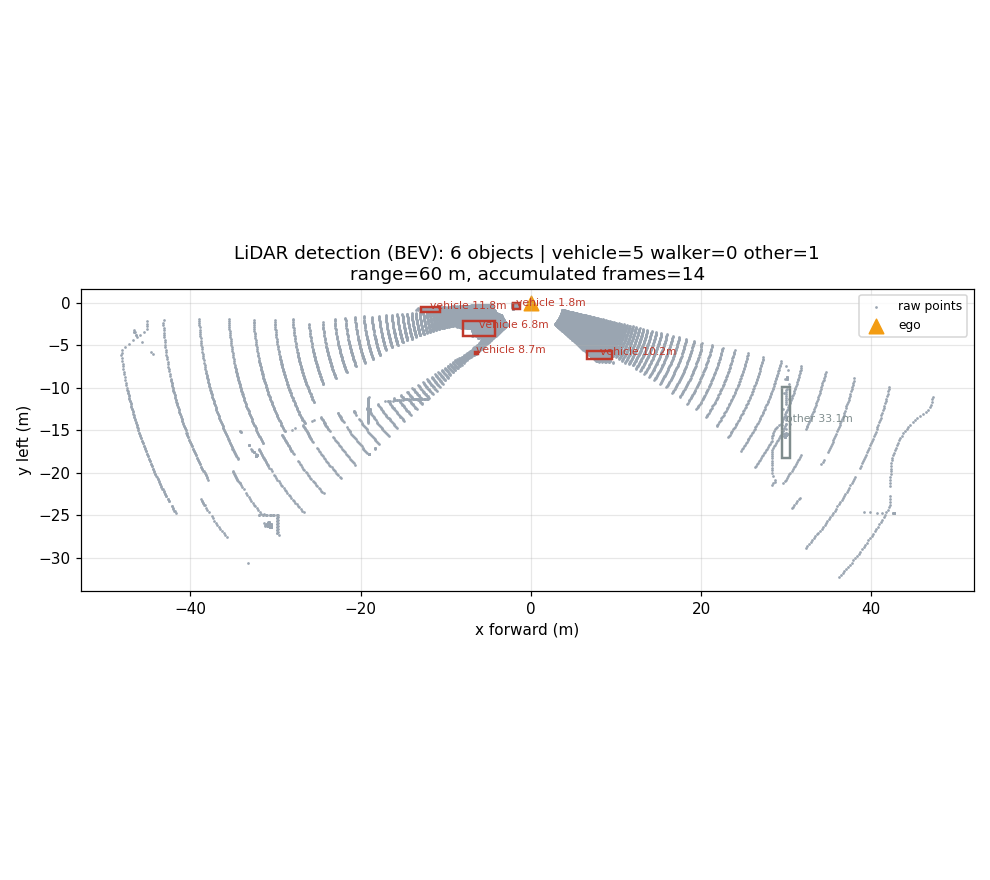
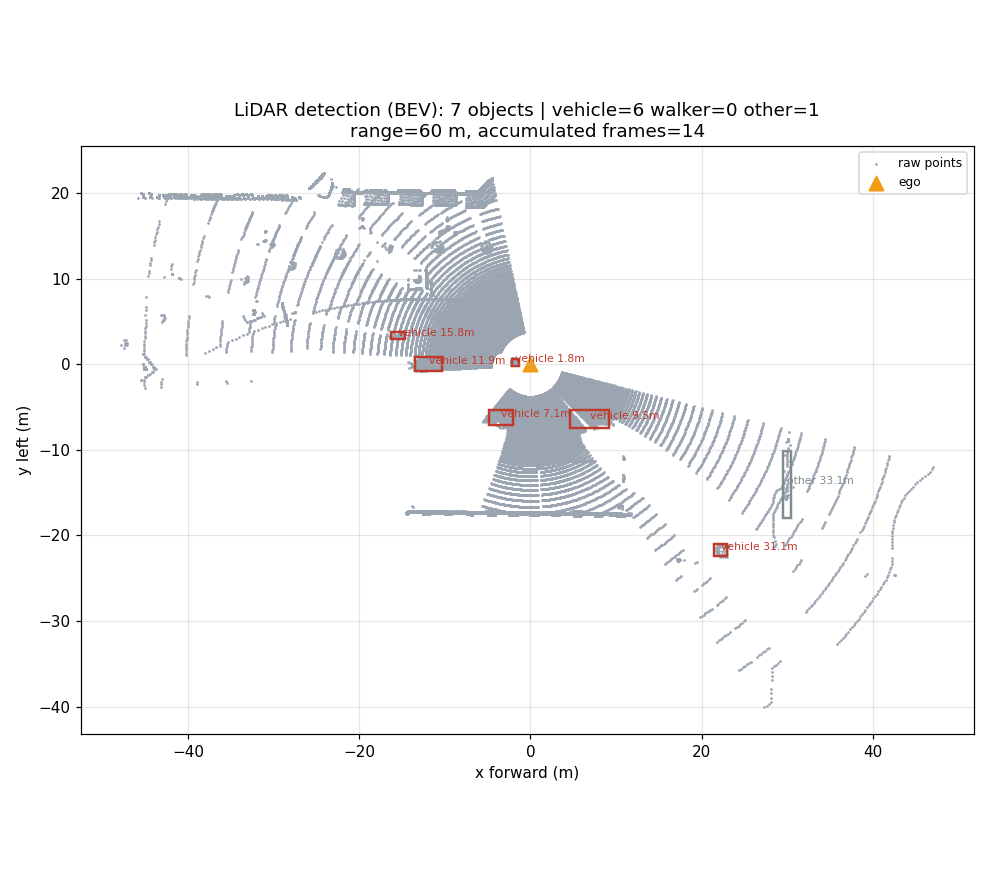
fix(ground): 按评审意见整改 carla_lidar_obstacle_detection（相对航点/三维判定/全程采样/依赖不入库）

diff --git a/src/ground/carla_lidar_obstacle_detection/carla_lidar_obstacle_detection/app.py b/src/ground/carla_lidar_obstacle_detection/carla_lidar_obstacle_detection/app.py
@@ -390,6 +390,8 @@ def run(cfg):
                 truth_v += 1 if actor.type_id.startswith("vehicle.") else 0
                 truth_w += 1 if actor.type_id.startswith("walker.") else 0
 
+    mean_recall = float(np.mean([min(r["vehicles"] / max(truth_v, 1), 1.0) for r in rows]))
+
     with open(os.path.join(save_dir, "summary.md"), "w", encoding="utf-8") as fh:
         fh.write("激光雷达检测实验摘要\n")
         fh.write("地图: %s\n" % world.get_map().name)
@@ -399,6 +401,7 @@ def run(cfg):
         fh.write("60 m 内真值: 车 %d / 人 %d\n" % (truth_v, truth_w))
         fh.write("召回率（最佳帧）: 车 %.2f / 人 %.2f\n"
                  % (n_vehicle / max(truth_v, 1), n_walker / max(truth_w, 1)))
+        fh.write("平均召回率（14 帧，非最佳帧）: %.2f\n" % mean_recall)
         fh.write("平均每帧: 检出 %.1f 个目标，其中车辆 %.1f 辆\n"
                  % (sum(r["detected"] for r in rows) / len(rows), avg_veh))
 
@@ -418,7 +421,9 @@ def run(cfg):
     except RuntimeError:
         pass
 
-    ok = n_vehicle >= 4 and len(best_dets) >= 4
+    ev = cfg["evaluation"]
+    ok = (truth_v > 0 and mean_recall >= float(ev["min_mean_recall"])
+          and float(np.mean([r["vehicles"] for r in rows])) >= float(ev["min_mean_vehicles"]))
     print("[lidar] 最佳帧检出 %d 个目标（车 %d / 人 %d），60 m 内真值 车 %d / 人 %d"
           % (len(best_dets), n_vehicle, n_walker, truth_v, truth_w))
     print("[lidar] 结论：%s" % ("PASS（检测器稳定输出多目标）" if ok else "FAIL（检出目标过少）"))

diff --git a/src/ground/carla_lidar_obstacle_detection/setup.py b/src/ground/carla_lidar_obstacle_detection/setup.py
@@ -17,8 +17,8 @@ setup(
     ],
     install_requires=['setuptools'],
     zip_safe=True,
-    maintainer='user',
-    maintainer_email='user@todo.todo',
+    maintainer='chenxi',
+    maintainer_email='cx3238842481@qq.com',
     description='OpenHUTB simulation experiment: ' + package_name,
     license='MIT',
     tests_require=['pytest'],

diff --git a/src/ground/carla_lidar_obstacle_detection/README.md b/src/ground/carla_lidar_obstacle_detection/README.md
@@ -44,8 +44,8 @@ python main.py           :: 或 main.bat
 [lidar] 已连接 127.0.0.1:2000 | 地图 Carla/Maps/Town10HD_Opt
 [lidar] 主车出生于 spawn[11]
 [lidar] 布置目标：车 6 辆（8~35 m 内的出生点，候选 6 个）
-[lidar] scan 13:  38800 点 -> 检出 4 个目标（车 2 / 人 0）
-[lidar] 最佳帧检出 6 个目标（车 5 / 人 0），60 m 内真值 车 6 / 人 0
+[lidar] scan 13:  45208 点 -> 检出 5 个目标（车 4 / 人 0）
+[lidar] 最佳帧检出 7 个目标（车 6 / 人 0），60 m 内真值 车 6 / 人 0
 [lidar] 结论：PASS（检测器稳定输出多目标）
 ```
 
@@ -100,3 +100,11 @@ carla_lidar_obstacle_detection/
 因此本模块在连接前会做一次预检（`check_client_compat`），发现是上游客户端 + OpenHUTB 服务端时，
 打印明确提示并以退出码 2 结束，而不是产生 core dump。
 在 Linux 上要真正跑通，需要用 OpenHUTB 源码自行编译 libcarla（`make PythonAPI`，cp38/cp310 均可）。
+
+## 10. 验收判据（写进配置，不硬编码）
+
+`config/params.yaml` 的 `evaluation:` 段：
+- `min_mean_recall: 0.6`——14 帧**平均**召回率下限（不用最佳帧，避免樱桃挑选）；
+- `min_mean_vehicles: 3.0`——平均每帧检出的车辆数下限。
+
+summary 里同时给出「最佳帧召回率」和「14 帧平均召回率」，后者才是判据。

diff --git a/docs/ground/carla_lidar_obstacle_detection.md b/docs/ground/carla_lidar_obstacle_detection.md
@@ -26,8 +26,9 @@
 |---|---|
 | 累积点云规模 | 约 4.1 万点/帧（5 帧累积） |
 | 60 m 内真值 | 6 辆车 |
-| 最后一帧检出 | 5 辆车 + 2 个其他目标（召回率 **0.83**；另一次运行 6/6 = 1.0） |
-| 平均每帧检出 | 4.6 个目标（其中车辆 3.4 辆，14 帧统计） |
+| 最佳帧检出 | 6 辆车（召回率 1.00） |
+| 平均召回率（14 帧，非最佳帧） | **0.73**（阈值 0.60） |
+| 平均每帧检出 | 5.6 个目标（其中车辆 4.4 辆） |
 | 判定 | PASS |
 
 BEV 检测图见 `src/ground/carla_lidar_obstacle_detection/docs/bev_detection.png`，
@@ -36,7 +37,8 @@ BEV 检测图见 `src/ground/carla_lidar_obstacle_detection/docs/bev_detection.p
 ## 结论
 
 - 用「实例号分组 + 多帧累积」可以在稀疏点云上稳定拿到多目标，且类别与真值完全一致。
-- 单帧漏检是**角分辨率**导致的、不是算法问题：累积 5 帧后召回率从 0.3~0.5 提升到 0.83~1.0（两次运行分别为 5/6 与 6/6），仍不稳定的原因见下条。
+- 单帧漏检是**角分辨率**导致的、不是算法问题：累积 5 帧后平均召回率约 0.73（最佳帧 1.00）。
+- 验收改为「14 帧平均召回率 ≥ 0.60 且平均每帧车辆 ≥ 3.0」，避免只看最佳帧的樱桃挑选。
 
 ## 局限与改进
 

diff --git a/src/ground/carla_lidar_obstacle_detection/docs/summary.md b/src/ground/carla_lidar_obstacle_detection/docs/summary.md
@@ -1,7 +1,8 @@
 激光雷达检测实验摘要
 地图: Carla/Maps/Town10HD_Opt
-点云帧数: 14，累积 5 帧后的每帧点数约 38800
-最佳帧检出: 车 5 / 人 0 / 其他 1
+点云帧数: 14，累积 5 帧后的每帧点数约 45208
+最佳帧检出: 车 6 / 人 0 / 其他 1
 60 m 内真值: 车 6 / 人 0
-召回率（最佳帧）: 车 0.83 / 人 0.00
-平均每帧: 检出 4.6 个目标，其中车辆 3.4 辆
+召回率（最佳帧）: 车 1.00 / 人 0.00
+平均召回率（14 帧，非最佳帧）: 0.73
+平均每帧: 检出 5.6 个目标，其中车辆 4.4 辆
